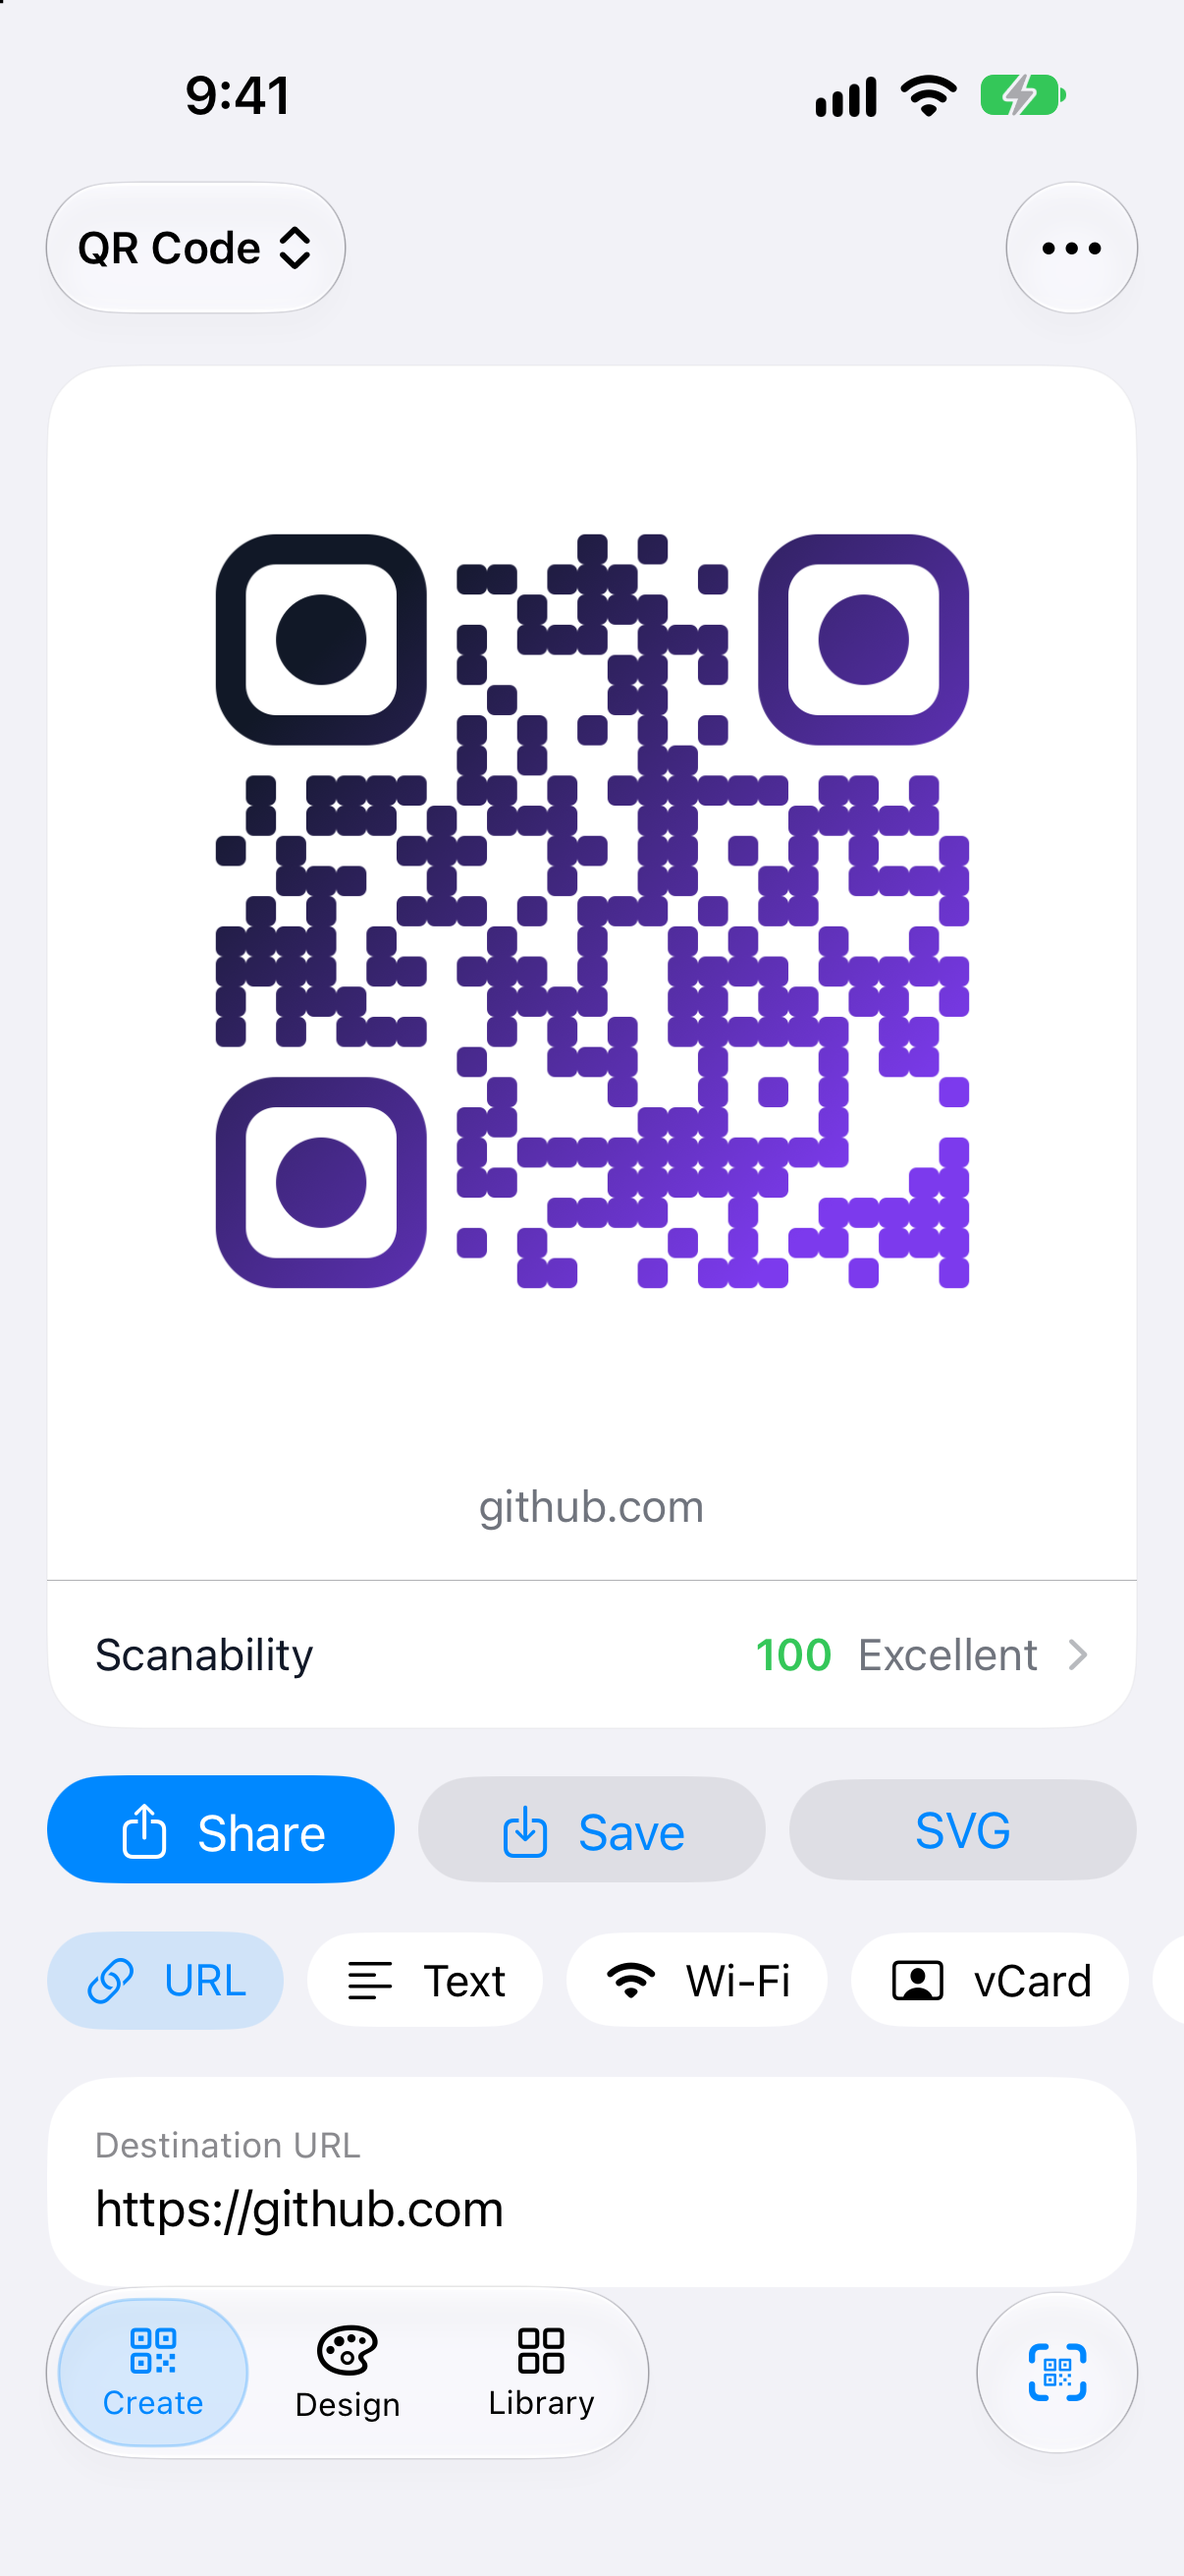
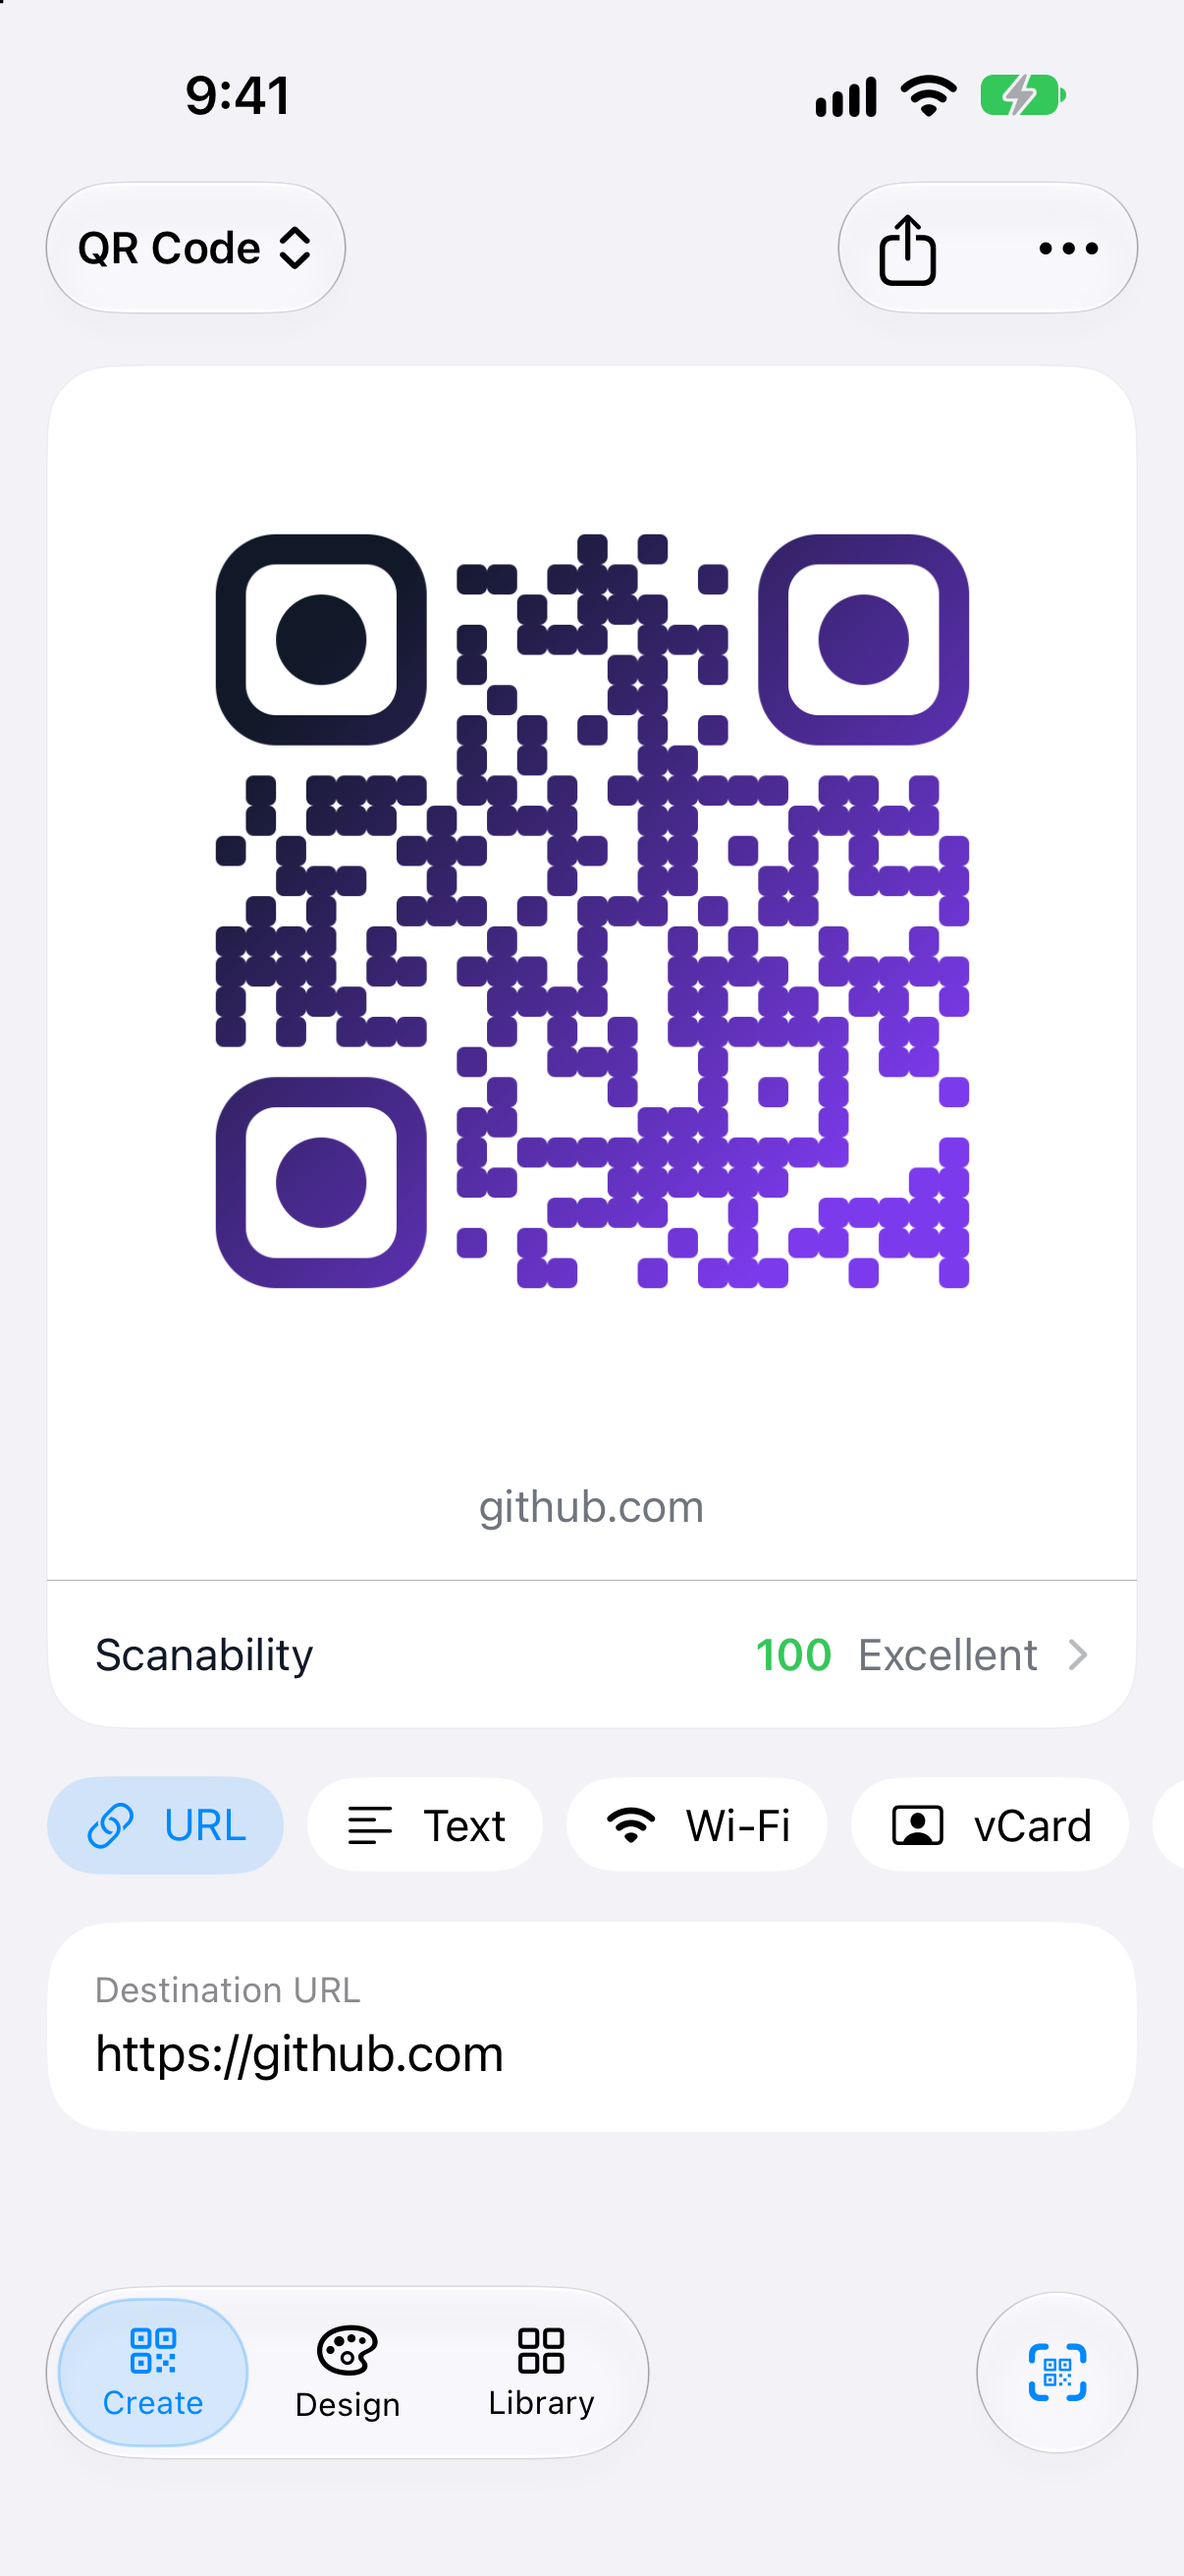
fix: one export control, and clearance above the floating bar
The create surface carried three pills for one verb — Share, Save, SVG —
which claims three actions where there is one action in three formats, and
read as a second toolbar on a surface that already has a chrome row above
and a bar below. Export is now one control in the top chrome: Share
Image…, Save PNG, and Save SVG where the symbology can honour it.
Print-grade PDF, batching and reset stay in the overflow.

The content also ran straight under the floating bar, so the last card
read as clipped rather than as something you could scroll to. Both create
surfaces now clear it by a gutter and a half.

Screenshots 02 and 03 are regenerated from this build; 05 is unchanged —
its capture is byte-identical. 70 tests pass.

Changed region(s): [[0.0307, 0.6796, 0.9511, 0.8032], [0.092, 0.8341, 0.4295, 0.865], [0.7363, 0.0927, 0.7977, 0.1236]]

diff --git a/Sources/CreateViews.swift b/Sources/CreateViews.swift
@@ -19,19 +19,17 @@ struct CreateView: View {
             ScrollView {
                 VStack(spacing: Theme.gutter) {
                     heroCard
-                    // The actions only exist once there is something to act on;
-                    // the empty state above says what to do instead of offering
-                    // buttons that cannot work.
-                    if preview != nil {
-                        actionBar
-                    }
                     if model.design.symbology.carriesRichPayload {
                         modeStrip
                     }
                     contentCard
                 }
                 .padding(.horizontal, Theme.gutter)
-                .padding(.vertical, Theme.tight)
+                .padding(.top, Theme.tight)
+                // Real clearance above the floating bar. The content used to run
+                // straight under it, so the last card read as clipped rather than
+                // as something you could scroll to.
+                .padding(.bottom, Theme.gutter * 1.5)
             }
             .background(Theme.page)
             // No large title: the leading pill names the symbology, the bar names
@@ -40,7 +38,8 @@ struct CreateView: View {
                 ToolbarItem(placement: .topBarLeading) {
                     symbologyMenu
                 }
-                ToolbarItem(placement: .topBarTrailing) {
+                ToolbarItemGroup(placement: .topBarTrailing) {
+                    exportMenu
                     overflowMenu
                 }
             }
@@ -155,43 +154,39 @@ struct CreateView: View {
         .accessibilityLabel("Scanability \(model.report.score) of 100, \(model.report.grade). Opens the full report.")
     }
 
-    /// The three things a person does with a finished code, as pills rather than
-    /// toolbar glyphs: share it, save a raster, save a vector. Print-grade PDF,
-    /// batching and reset live behind the overflow.
-    private var actionBar: some View {
-        HStack(spacing: Theme.tight) {
+    /// One export control for one verb. Getting a code out of the app is a
+    /// single action with three formats; a control per format would claim three
+    /// actions and crowd the toolbar. Print-grade PDF, batching and reset stay
+    /// in the overflow.
+    private var exportMenu: some View {
+        Menu {
             if let preview {
                 ShareLink(item: Image(uiImage: preview),
                           preview: SharePreview(model.summary, image: Image(uiImage: preview))) {
-                    Label("Share", systemImage: "square.and.arrow.up")
-                        .frame(maxWidth: .infinity)
+                    Label("Share Image…", systemImage: "square.and.arrow.up")
                 }
-                .buttonStyle(.borderedProminent)
-                .buttonBorderShape(.capsule)
                 .simultaneousGesture(TapGesture().onEnded { model.saveToHistory() })
-            }
-            Button {
-                export(.png)
-            } label: {
-                Label("Save", systemImage: "square.and.arrow.down")
-                    .frame(maxWidth: .infinity)
-            }
-            .buttonStyle(.bordered)
-            .buttonBorderShape(.capsule)
-            // Vector output is QR-only: the other symbologies are CoreImage
-            // bitmaps with no module geometry to serialise, so the pill appears
-            // only where it can be honoured.
-            if model.design.symbology == .qr {
                 Button {
-                    export(.svg)
+                    export(.png)
                 } label: {
-                    Text("SVG").frame(maxWidth: .infinity)
+                    Label("Save PNG", systemImage: "photo")
                 }
-                .buttonStyle(.bordered)
-                .buttonBorderShape(.capsule)
-                .accessibilityLabel("Save as SVG")
+                // Vector output is QR-only: the other symbologies are CoreImage
+                // bitmaps with no module geometry to serialise, so the option
+                // appears only where it can be honoured.
+                if model.design.symbology == .qr {
+                    Button {
+                        export(.svg)
+                    } label: {
+                        Label("Save SVG", systemImage: "scribble.variable")
+                    }
+                }
             }
+        } label: {
+            Image(systemName: "square.and.arrow.up")
         }
+        .disabled(preview == nil)
+        .accessibilityLabel("Export code")
     }
 
     /// The fields, in a card rather than a grouped list: a list made this read

diff --git a/Sources/CreateFormViews.swift b/Sources/CreateFormViews.swift
@@ -315,7 +315,9 @@ struct DesignView: View {
                     }
                 }
                 .padding(.horizontal, Theme.gutter)
-                .padding(.vertical, Theme.tight)
+                .padding(.top, Theme.tight)
+                // Clearance above the floating bar, as on the create surface.
+                .padding(.bottom, Theme.gutter * 1.5)
             }
             .background(Theme.page)
             .navigationTitle("Design")
